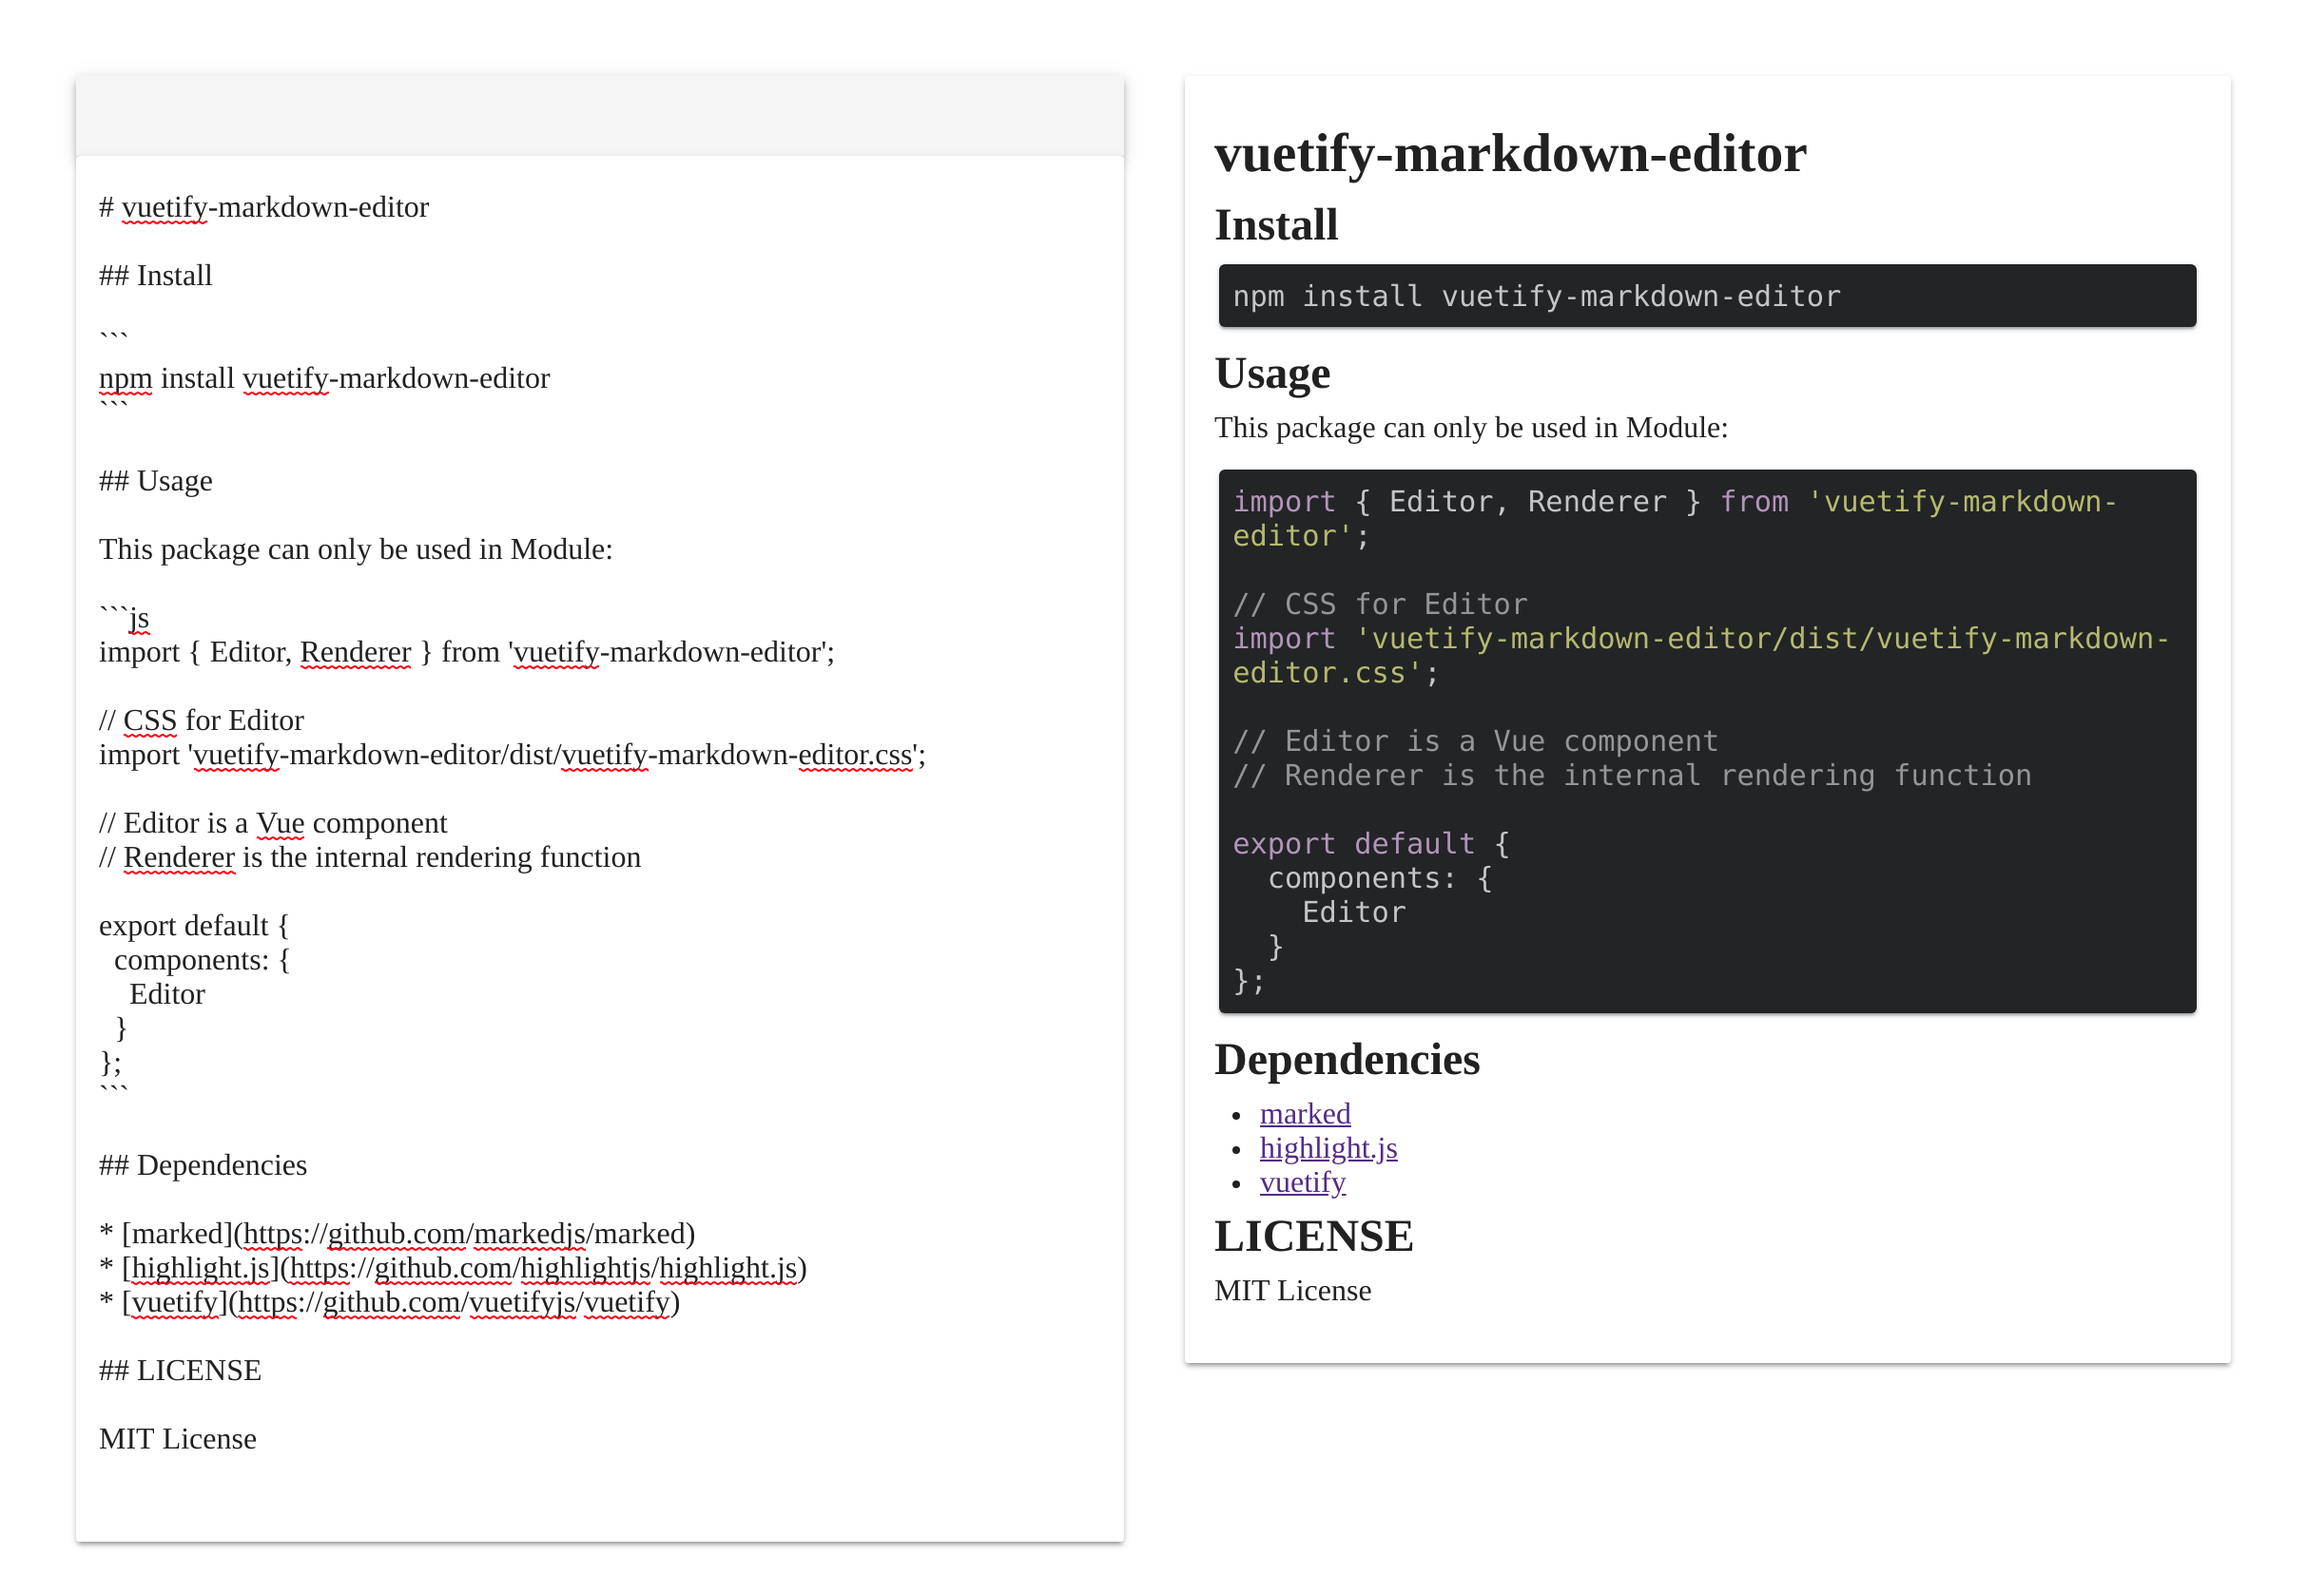
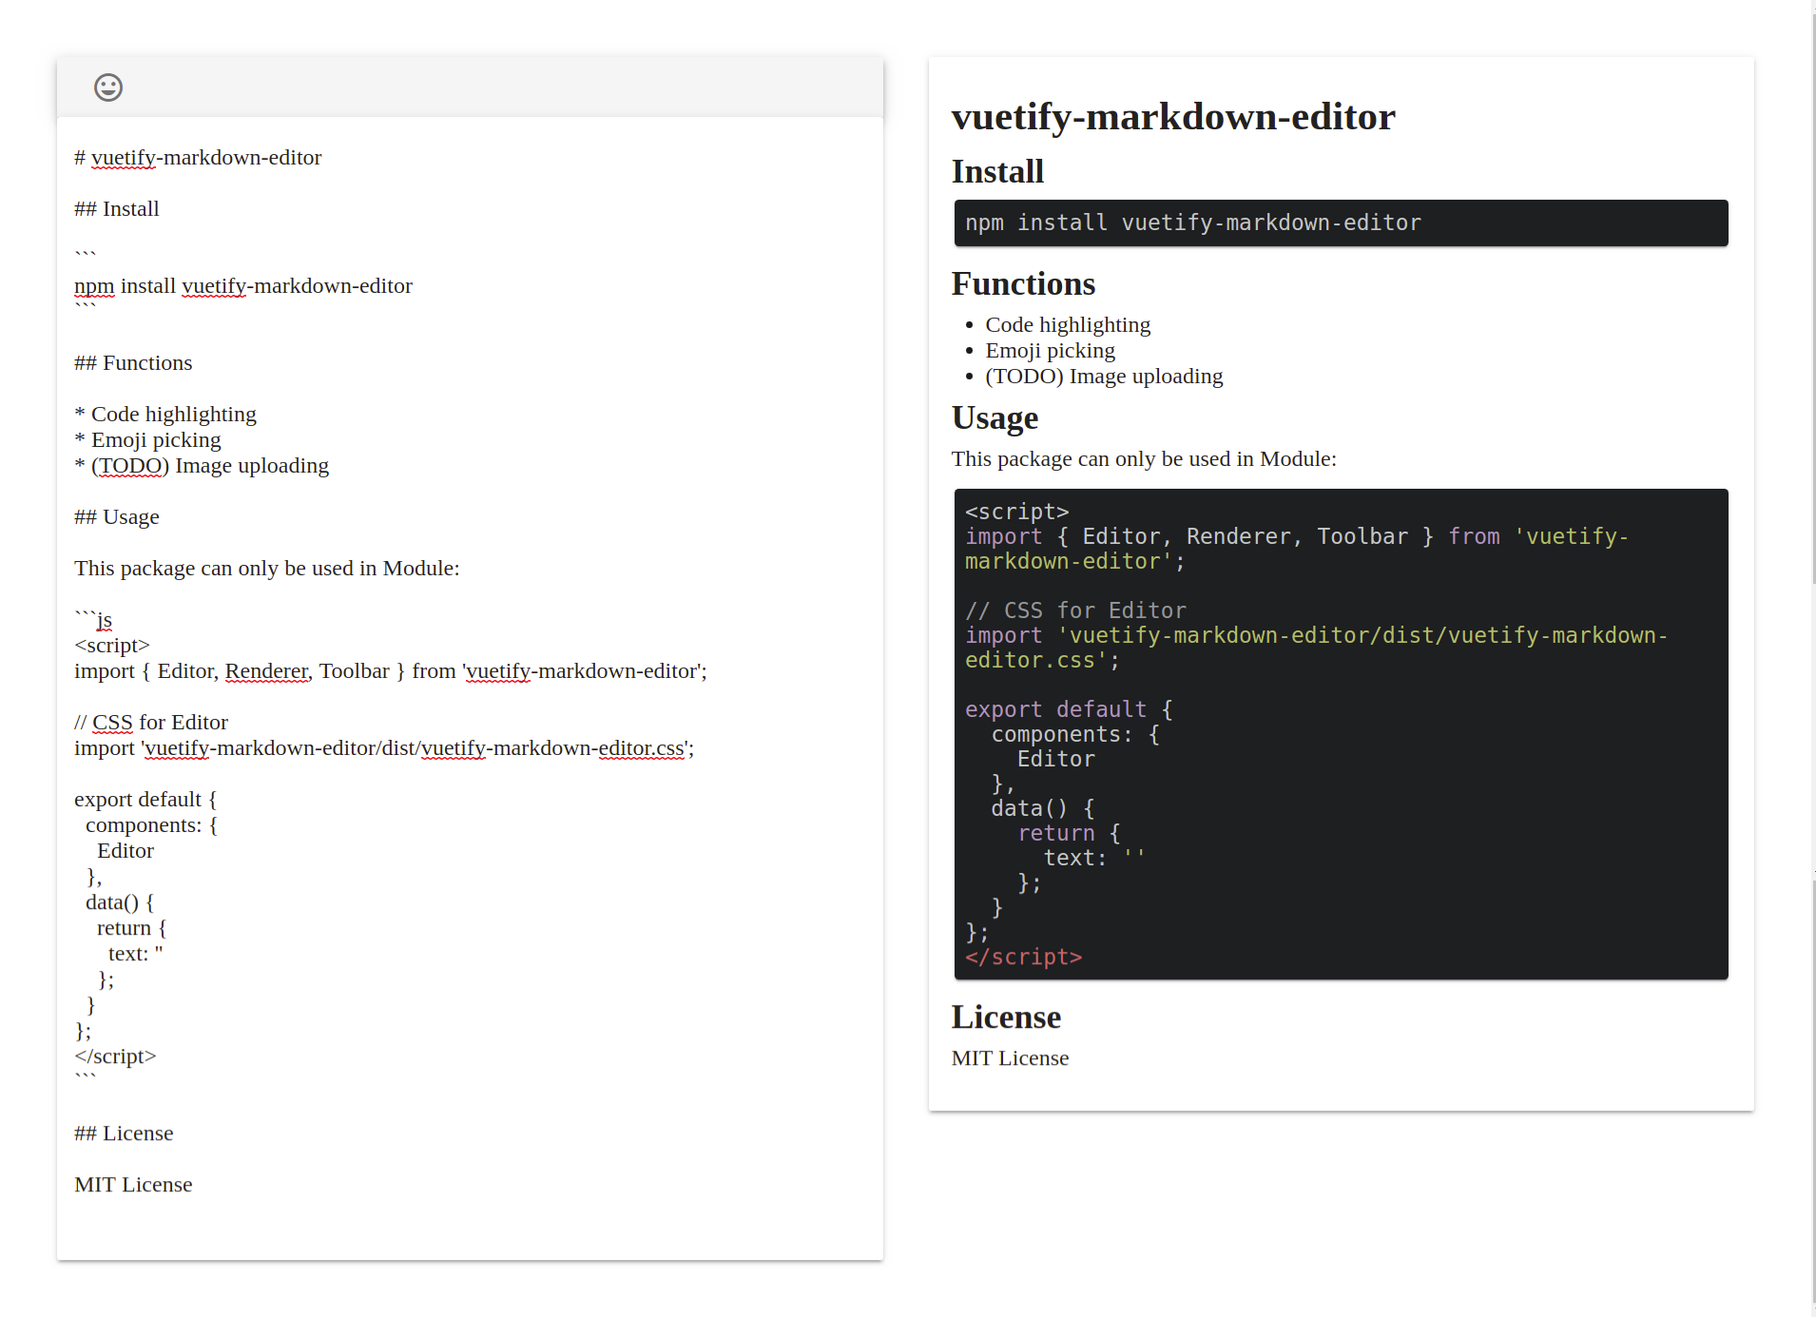
Update README, emoji and prop

diff --git a/src/components/Toolbar.vue b/src/components/Toolbar.vue
@@ -1,6 +1,6 @@
 <template>
   <div>
-    <v-toolbar :height="height">
+    <v-toolbar :height="toolbarHeight">
       <v-hover>
         <!-- Must use click.stop to prevent v-click-outside event -->
         <v-icon
@@ -18,6 +18,8 @@
         v-show="emojiPicker"
         v-click-outside="() => this.emojiPicker = false"
         title="Pick an emoji..."
+        emoji=""
+        :native="nativeEmoji"
         :pickerStyles="{ position: 'absolute', 'z-index': 1 }"
         @select="select"
         />
@@ -35,9 +37,13 @@ import vClickOutside from 'v-click-outside';
 
 export default {
   props: {
-    height: {
+    toolbarHeight: {
       type: String,
       default: '42px'
+    },
+    nativeEmoji: {
+      type: Boolean,
+      default: false
     }
   },
   components: {

diff --git a/README.md b/README.md
@@ -6,6 +6,12 @@
 npm install vuetify-markdown-editor
 ```
 
+## Functions
+
+* Code highlighting
+* Emoji picking
+* (TODO) Image uploading
+
 ## Usage
 
 This package can only be used in Module:
@@ -45,11 +51,15 @@ export default {
 
 ![Screenshot](Screenshot.png)
 
+![Screenshot-Emoji](Screenshot-Emoji.png)
+
 ## Dependencies
 
 * [marked](https://github.com/markedjs/marked)
 * [highlight.js](https://github.com/highlightjs/highlight.js)
-* [vuetify](https://github.com/vuetifyjs/vuetify)
+* [Vuetify](https://github.com/vuetifyjs/vuetify)
+* [Emoji Mart (Vue)](https://github.com/jm-david/emoji-mart-vue)
+* [v-click-outside](https://github.com/ndelvalle/v-click-outside)
 
 ## License
 
